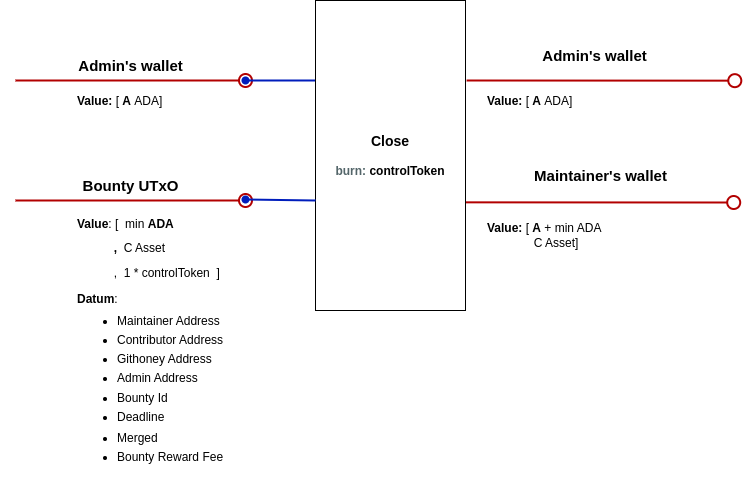
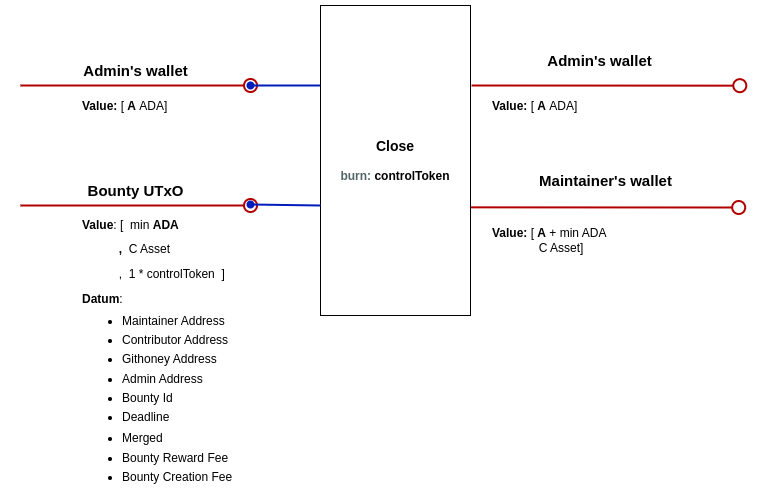
Adding creation Fee to datum

diff --git a/offchain/src/types.ts b/offchain/src/types.ts
@@ -9,9 +9,10 @@ type WalletT = Data.Static<typeof WalletSchema>;
 
 const DatumSchema = Data.Object({
   maintainer: WalletSchema,
+  admin: WalletSchema,
+  githoney: WalletSchema,
   deadline: Data.Integer(),
   bounty_id: Data.Bytes(),
-  admin: WalletSchema,
   merged: Data.Boolean(),
   contributor: Data.Nullable(WalletSchema)
 });
@@ -21,16 +22,18 @@ const GithoneyDatum = DatumSchema as unknown as GithoneyDatumT;
 
 function mkDatum(
   maintainer: WalletT,
+  admin: WalletT,
+  githoney: WalletT,
   deadline: bigint,
   bounty_id: string,
-  admin: WalletT,
   merged: boolean
 ): string {
   const d: GithoneyDatumT = {
     maintainer,
+    admin,
+    githoney,
     deadline,
     bounty_id,
-    admin,
     merged,
     contributor: null
   };

diff --git a/docs/design.md b/docs/design.md
@@ -19,10 +19,12 @@ There will be a single `BountyUtxo` for each bounty, which will hold the reward 
 > - maintainer: **PaymentPubKeyHash**
 > - admin: **PaymentPubKeyHash**
 > - githoney: **PaymentPubKeyHash**
+> - contributor: **Optional( PaymentPubKeyHash )** (if assigned)
 > - deadline: **POSIXTime**
 > - bounty_id: **String**
 > - merged: **Bool**
-> - contributor: **Optional( PaymentPubKeyHash )** (if assigned)
+> - creation_fee: **BigInt**
+> - reward_fee: **BigInt**
 >
 > #### Value
 >
@@ -123,6 +125,7 @@ Pays the contributor the remaining reward assets and burns the `ControlToken`.
   - Deadline must be in the future.
   - Merged field must be False.
   - Bounty Reward Fee must be equal or grater than 0 and less than 1.
+  - Bounty Creation Fee must be greater than 0.
 
 #### BURN:
 
